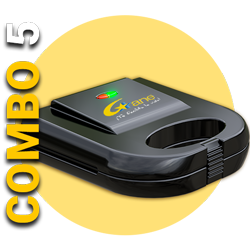
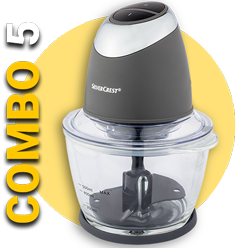
cambios v2.2

diff --git a/src/app/pages/home/home.component.html b/src/app/pages/home/home.component.html
@@ -28,10 +28,10 @@
                     <label class="text-danger fw-bold">El campo Cédula es requerido</label>
                 </ng-container>
                 <ng-container *ngIf="Document?.errors?.min">
-                    <label class="text-danger fw-bold">Debe tener como 10 caracteres</label>
+                    <label class="text-danger fw-bold">Debe tener mínimo 6 caracteres</label>
                 </ng-container>
                 <ng-container *ngIf="Document?.errors?.max">
-                    <label class="text-danger fw-bold">Debe tener como 10 caracteres</label>
+                    <label class="text-danger fw-bold">Debe tener máximo 10 caracteres</label>
                 </ng-container>
             </div>
             <div class="form-group mb-2">
@@ -46,10 +46,10 @@
                     <label class="text-danger fw-bold">El campo Celular es requerido</label>
                 </ng-container>
                 <ng-container *ngIf="Phone?.errors?.min">
-                    <label class="text-danger fw-bold">Debe tener como 10 caracteres</label>
+                    <label class="text-danger fw-bold">Debe tener mínimo 7 caracteres</label>
                 </ng-container>
                 <ng-container *ngIf="Phone?.errors?.max">
-                    <label class="text-danger fw-bold">Debe tener como 10 caracteres</label>
+                    <label class="text-danger fw-bold">Debe tener máximo 10 caracteres</label>
                 </ng-container>
             </div>
             <div class="form-group mb-2">
@@ -58,10 +58,10 @@
                     <label class="text-danger fw-bold">El campo Código es requerido</label>
                 </ng-container>
                 <ng-container *ngIf="Code?.errors?.min">
-                    <label class="text-danger fw-bold">Debe tener como 20 caracteres</label>
+                    <label class="text-danger fw-bold">Debe tener mínimo 20 caracteres</label>
                 </ng-container>
                 <ng-container *ngIf="Code?.errors?.max">
-                    <label class="text-danger fw-bold">Debe tener como 20 caracteres</label>
+                    <label class="text-danger fw-bold">Debe tener máximo 20 caracteres</label>
                 </ng-container>
             </div>
             <div class="form-group mb-4">
@@ -96,44 +96,35 @@
     </div>
 </div>
 <div class="d-flex flex-wrap justify-content-center" style="gap: 78px;">
-    <div>
+    <div class="d-flex justify-content-center flex-column align-items-center">
         <img src="./assets/redime/COMBO1icons.png" alt="combo-1" class="img-fluid">
-        <p class="mb-0 mt-4 text-center text-white" style="font-size: 17px;">Lapiceros, llaveros,</p>
-        <p class="mb-4 text-center text-white" style="font-size: 17px;">paraguas, termos.</p>
-        <img src="./assets/redime/1000puntosboton.png" alt="1000puntos" class="img-fluid">
+        <p class="mb-4 mt-4 text-center text-white" style="font-size: 17px;">Llavero + Lapicero + Audífonos</p>
+        <button class="btn btn-amarillo btn-lg">500Pts</button>
     </div>
-    <div>
+    <div class="d-flex justify-content-center flex-column align-items-center">
         <img src="./assets/redime/COMBO2icons.png" alt="combo-2" class="img-fluid">
-        <p class="mb-5 mt-4 text-center text-white" style="font-size: 17px;">Termos, audífonos.</p>
-        <img src="./assets/redime/1500puntosboton.png" alt="1500puntos" class="img-fluid">
+        <p class="mb-4 mt-4 text-center text-white" style="font-size: 17px;">Termos + Lapicero.</p>
+        <button class="btn btn-amarillo btn-lg">1000Pts</button>
     </div>
-    <div>
+    <div class="d-flex justify-content-center flex-column align-items-center">
         <img src="./assets/redime/COMBO3icons.png" alt="combo-3" class="img-fluid">
-        <p class="mb-0 mt-4 text-center text-white" style="font-size: 17px;">Picadoras, baterías de</p>
-        <p class="mb-0 text-center text-white" style="font-size: 17px;">cocina, planchas,</p>
-        <p class=" mb-0 text-center text-white" style="font-size: 17px;">sandwicheras.</p>
-        <img src="./assets/redime/2000puntosboton.png" alt="2000puntos" class="img-fluid">
+        <p class="mb-4 mt-4 text-center text-white" style="font-size: 17px;">Paraguas + Plancha</p>
+        <button class="btn btn-amarillo btn-lg">1200Pts</button>
     </div>
-    <div>
+    <div class="d-flex justify-content-center flex-column align-items-center">
         <img src="./assets/redime/COMBO4icons.png" alt="combo-3" class="img-fluid">
-        <p class="mb-0 mt-4 text-center text-white" style="font-size: 17px;">Picadoras, baterías de</p>
-        <p class="mb-0 text-center text-white" style="font-size: 17px;">cocina, planchas,</p>
-        <p class=" mb-0 text-center text-white" style="font-size: 17px;">sandwicheras.</p>
-        <img src="./assets/redime/2000puntosboton.png" alt="2000puntos" class="img-fluid">
+        <p class="mb-4 mt-4 text-center text-white" style="font-size: 17px;">Sandwichera</p>
+        <button class="btn btn-amarillo btn-lg">1500Pts</button>
     </div>
-    <div>
+    <div class="d-flex justify-content-center flex-column align-items-center">
         <img src="./assets/redime/COMBO5icons.png" alt="combo-3" class="img-fluid">
-        <p class="mb-0 mt-4 text-center text-white" style="font-size: 17px;">Picadoras, baterías de</p>
-        <p class="mb-0 text-center text-white" style="font-size: 17px;">cocina, planchas,</p>
-        <p class=" mb-0 text-center text-white" style="font-size: 17px;">sandwicheras.</p>
-        <img src="./assets/redime/2000puntosboton.png" alt="2000puntos" class="img-fluid">
+        <p class="mb-4 mt-4 text-center text-white" style="font-size: 17px;">Picadora</p>
+        <button class="btn btn-amarillo btn-lg">1800Pts</button>
     </div>
-    <div>
+    <div class="d-flex justify-content-center flex-column align-items-center">
         <img src="./assets/redime/COMBO6icons.png" alt="combo-3" class="img-fluid">
-        <p class="mb-0 mt-4 text-center text-white" style="font-size: 17px;">Picadoras, baterías de</p>
-        <p class="mb-0 text-center text-white" style="font-size: 17px;">cocina, planchas,</p>
-        <p class=" mb-0 text-center text-white" style="font-size: 17px;">sandwicheras.</p>
-        <img src="./assets/redime/2000puntosboton.png" alt="2000puntos" class="img-fluid">
+        <p class="mb-4 mt-4 text-center text-white" style="font-size: 17px;">Batería de cocina</p>
+        <button class="btn btn-amarillo btn-lg">2000Pts</button>
     </div>
 </div>
 <app-logo-footer></app-logo-footer>

diff --git a/src/app/shared/components/logo-footer/logo-footer.component.html b/src/app/shared/components/logo-footer/logo-footer.component.html
@@ -10,13 +10,14 @@
     <div class="offset-md-2 col-md-10 text-white">
         <h3 class="mb-3 fw-bold">Términos y Condiciones:</h3>
         <ul class="line-height-1">
-            <li>Promoción válida para registros realizados solamente por la página web (revisar URL para promocionar).</li>
+            <li>Promoción válida para registros realizados solamente por la página web.</li>
+            <li>No aplica para integrantes ni colocadoras de la familia Gane.</li>
             <li>Personas que residan en la ciudad de Cali.</li>
             <li>El cliente debe ser mayor de edad y registrar su documentos de identidad.</li>
             <li>El cliente deberá hacer su registro completo en el formulario inicial para ingresar a jugar.</li>
-            <li>Vigencia promoción: Desde enero _ hasta Febrero 5 de 2022.</li>
-            <li>Sorteo Premio Mayor: Febrero 11 de 2022.</li>
-            <li>Son 180 combos disponibles.</li>
+            <li>Vigencia promoción: Desde enero 15 hasta Febrero 15 de 2022.</li>
+            <li>Sorteo Premio Mayor: Febrero 22 de 2022.</li>
+            <li> Son 190 Combos disponibles para 190 clientes diferentes. El cliente solo podrá ganar una (1) vez.</li>
         </ul>
     </div>
 </div>

diff --git a/src/app/pages/home/home.component.ts b/src/app/pages/home/home.component.ts
@@ -19,9 +19,9 @@ export class HomeComponent implements OnInit {
   crearFormulario(){
     this.formulario = this.fb.group({
       name: ['', Validators.required],
-      document: ['', [Validators.required, Validators.min(1000000000), Validators.max(9999999999)]],
+      document: ['', [Validators.required, Validators.min(100000), Validators.max(9999999999)]],
       email: ['', [Validators.required, Validators.email]],
-      phone: ['', [Validators.required, Validators.min(1000000000), Validators.max(9999999999)]],
+      phone: ['', [Validators.required, Validators.min(1000000), Validators.max(9999999999)]],
       code: ['', [Validators.required, Validators.min(10000000000000000000), Validators.max(99999999999999999999)]],
       points: [''],
       acepto: [false, Validators.required]

diff --git a/src/app/pages/home/home.component.scss b/src/app/pages/home/home.component.scss
@@ -20,6 +20,20 @@
     border-radius: 35px;
     text-transform: uppercase;
 }
+.btn-amarillo{
+    background-color: #FFC700;
+    color: #016633;
+    font-weight: bold;
+    text-transform: uppercase;
+}
+.btn-amarillo:hover{
+    background-color: #016633;
+    color: #FFC700;
+}
+.btn-amarillo:active{
+    background-color: #FFC700;
+    color: #016633;
+}
 .btn-blanco-form{
     background-color: #fff;
     color: #016633;

diff --git a/src/environments/environment.ts b/src/environments/environment.ts
@@ -4,7 +4,7 @@
 
 export const environment = {
   production: false,
-  url: 'http://gane-raspa.bunker.josefernandonieto.com'
+  url: 'https://raspaapi.portalgane.com'
 };
 
 /*
